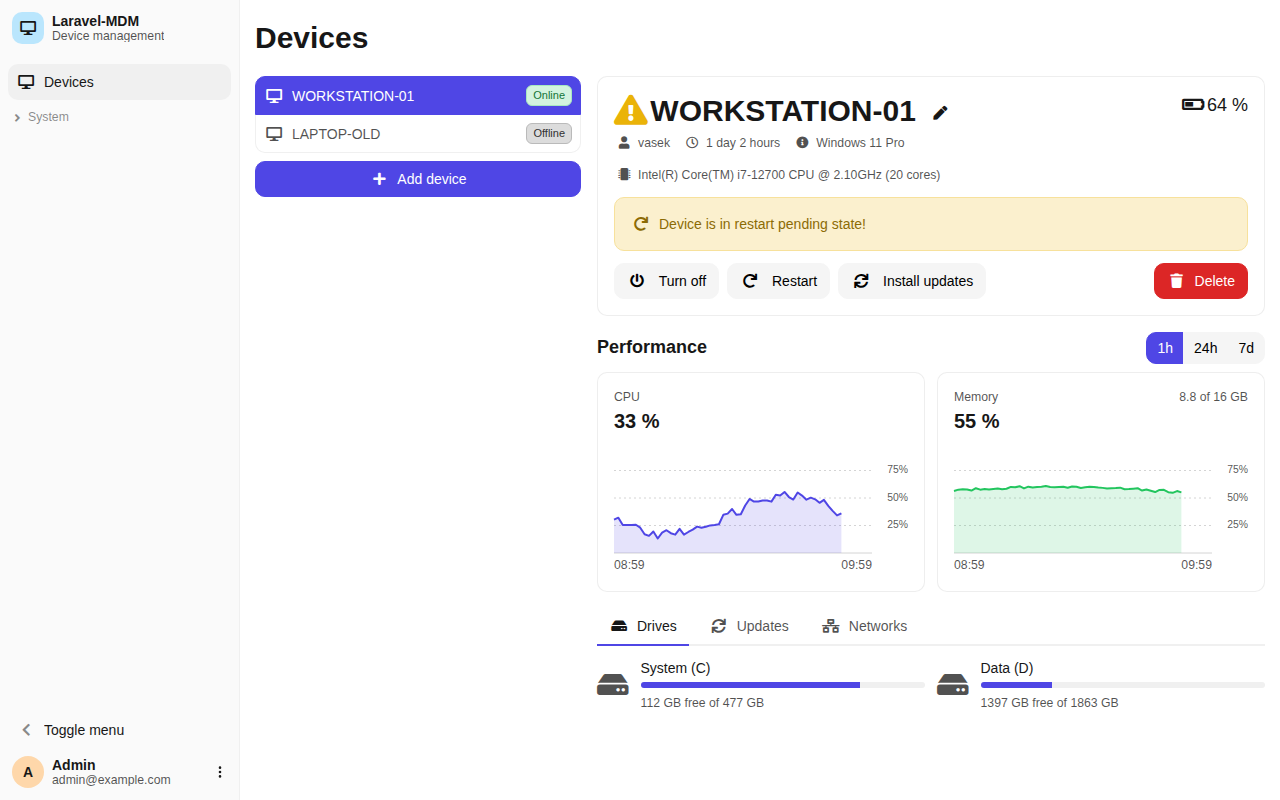
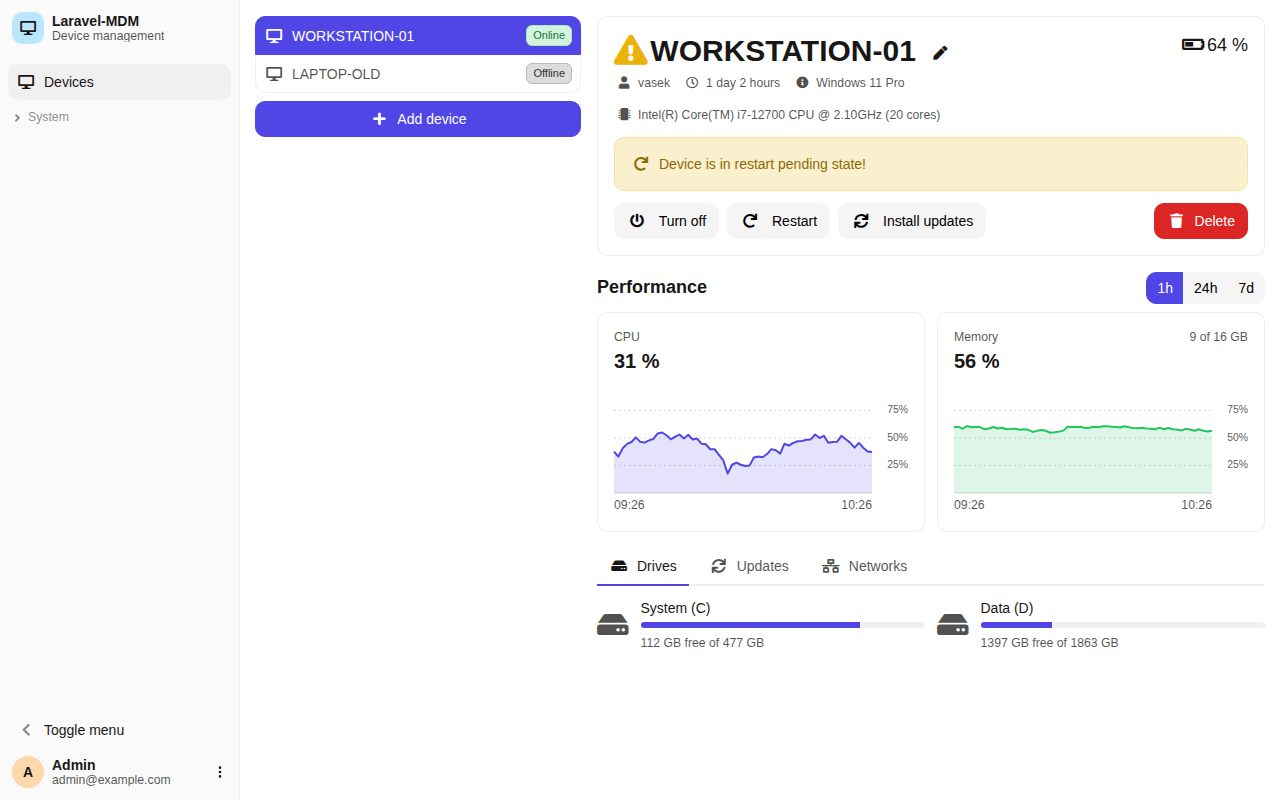
Remove the Devices page heading
Claude-Session: https://claude.ai/code/session_014T3NPF83qJ7TDEeiorwe6F

diff --git a/src/laravel/resources/views/livewire/show-devices.blade.php b/src/laravel/resources/views/livewire/show-devices.blade.php
@@ -1,11 +1,5 @@
 <div>
     <div class="container-xl">
-        <div class="page-header hide-mobile">
-            <h1>{{ __('Devices') }}</h1>
-        </div>
-    </div>
-
-    <div class="container-xl">
         <div class="row g-4">
             <div class="col-12 col-lg-4">
                 <div class="list-group">
